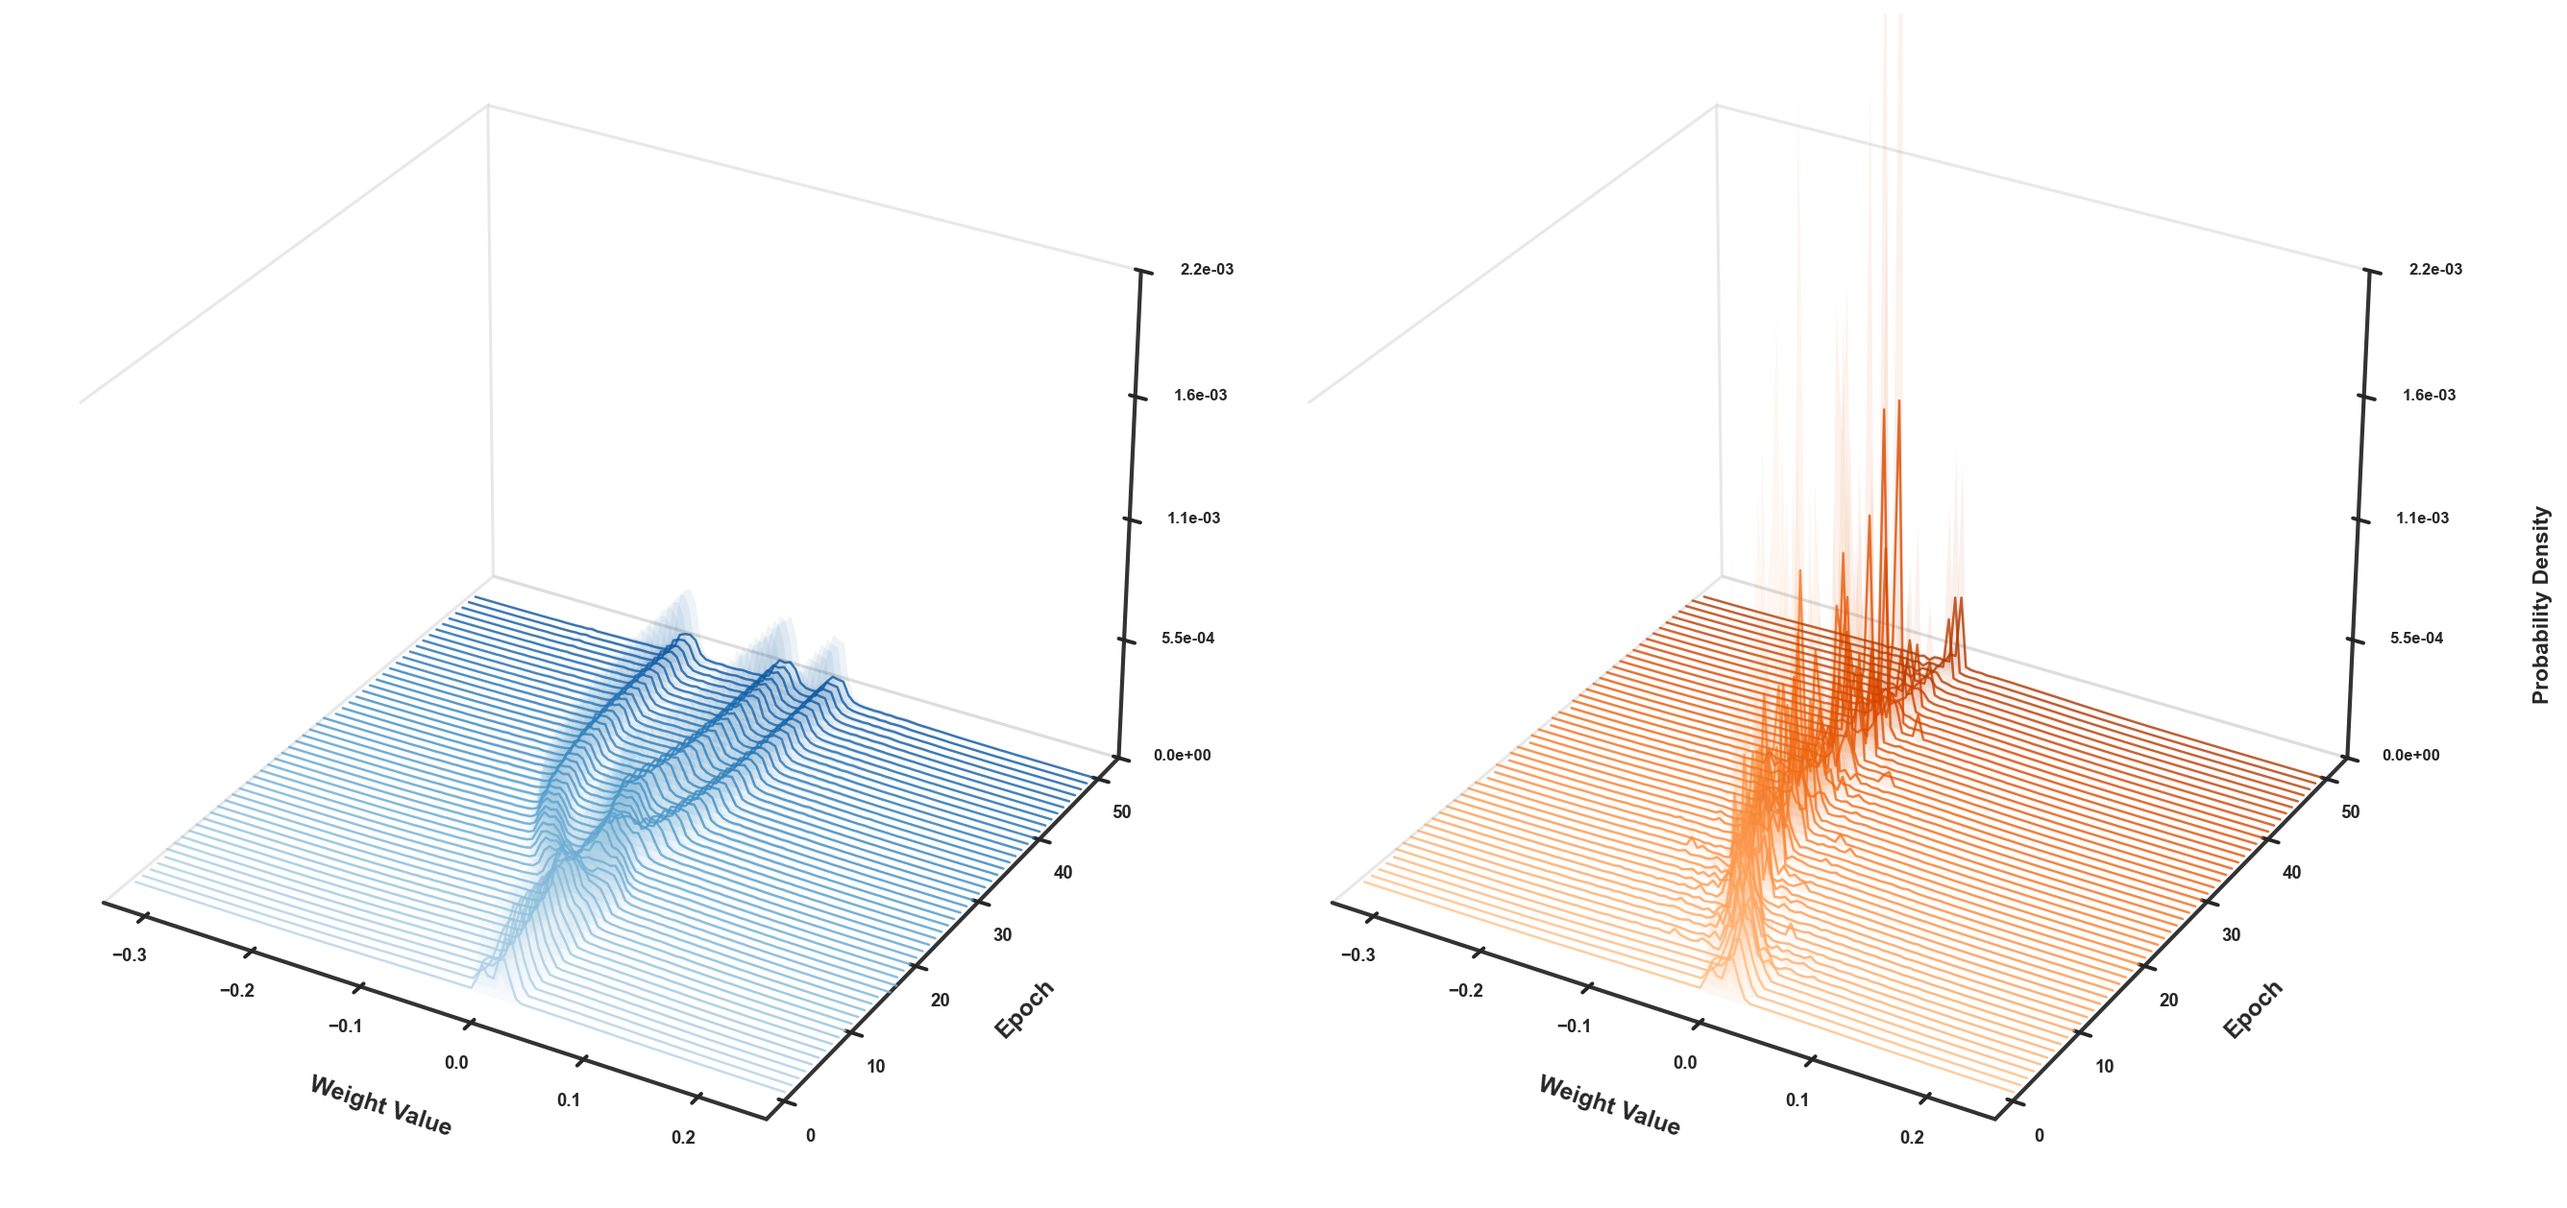
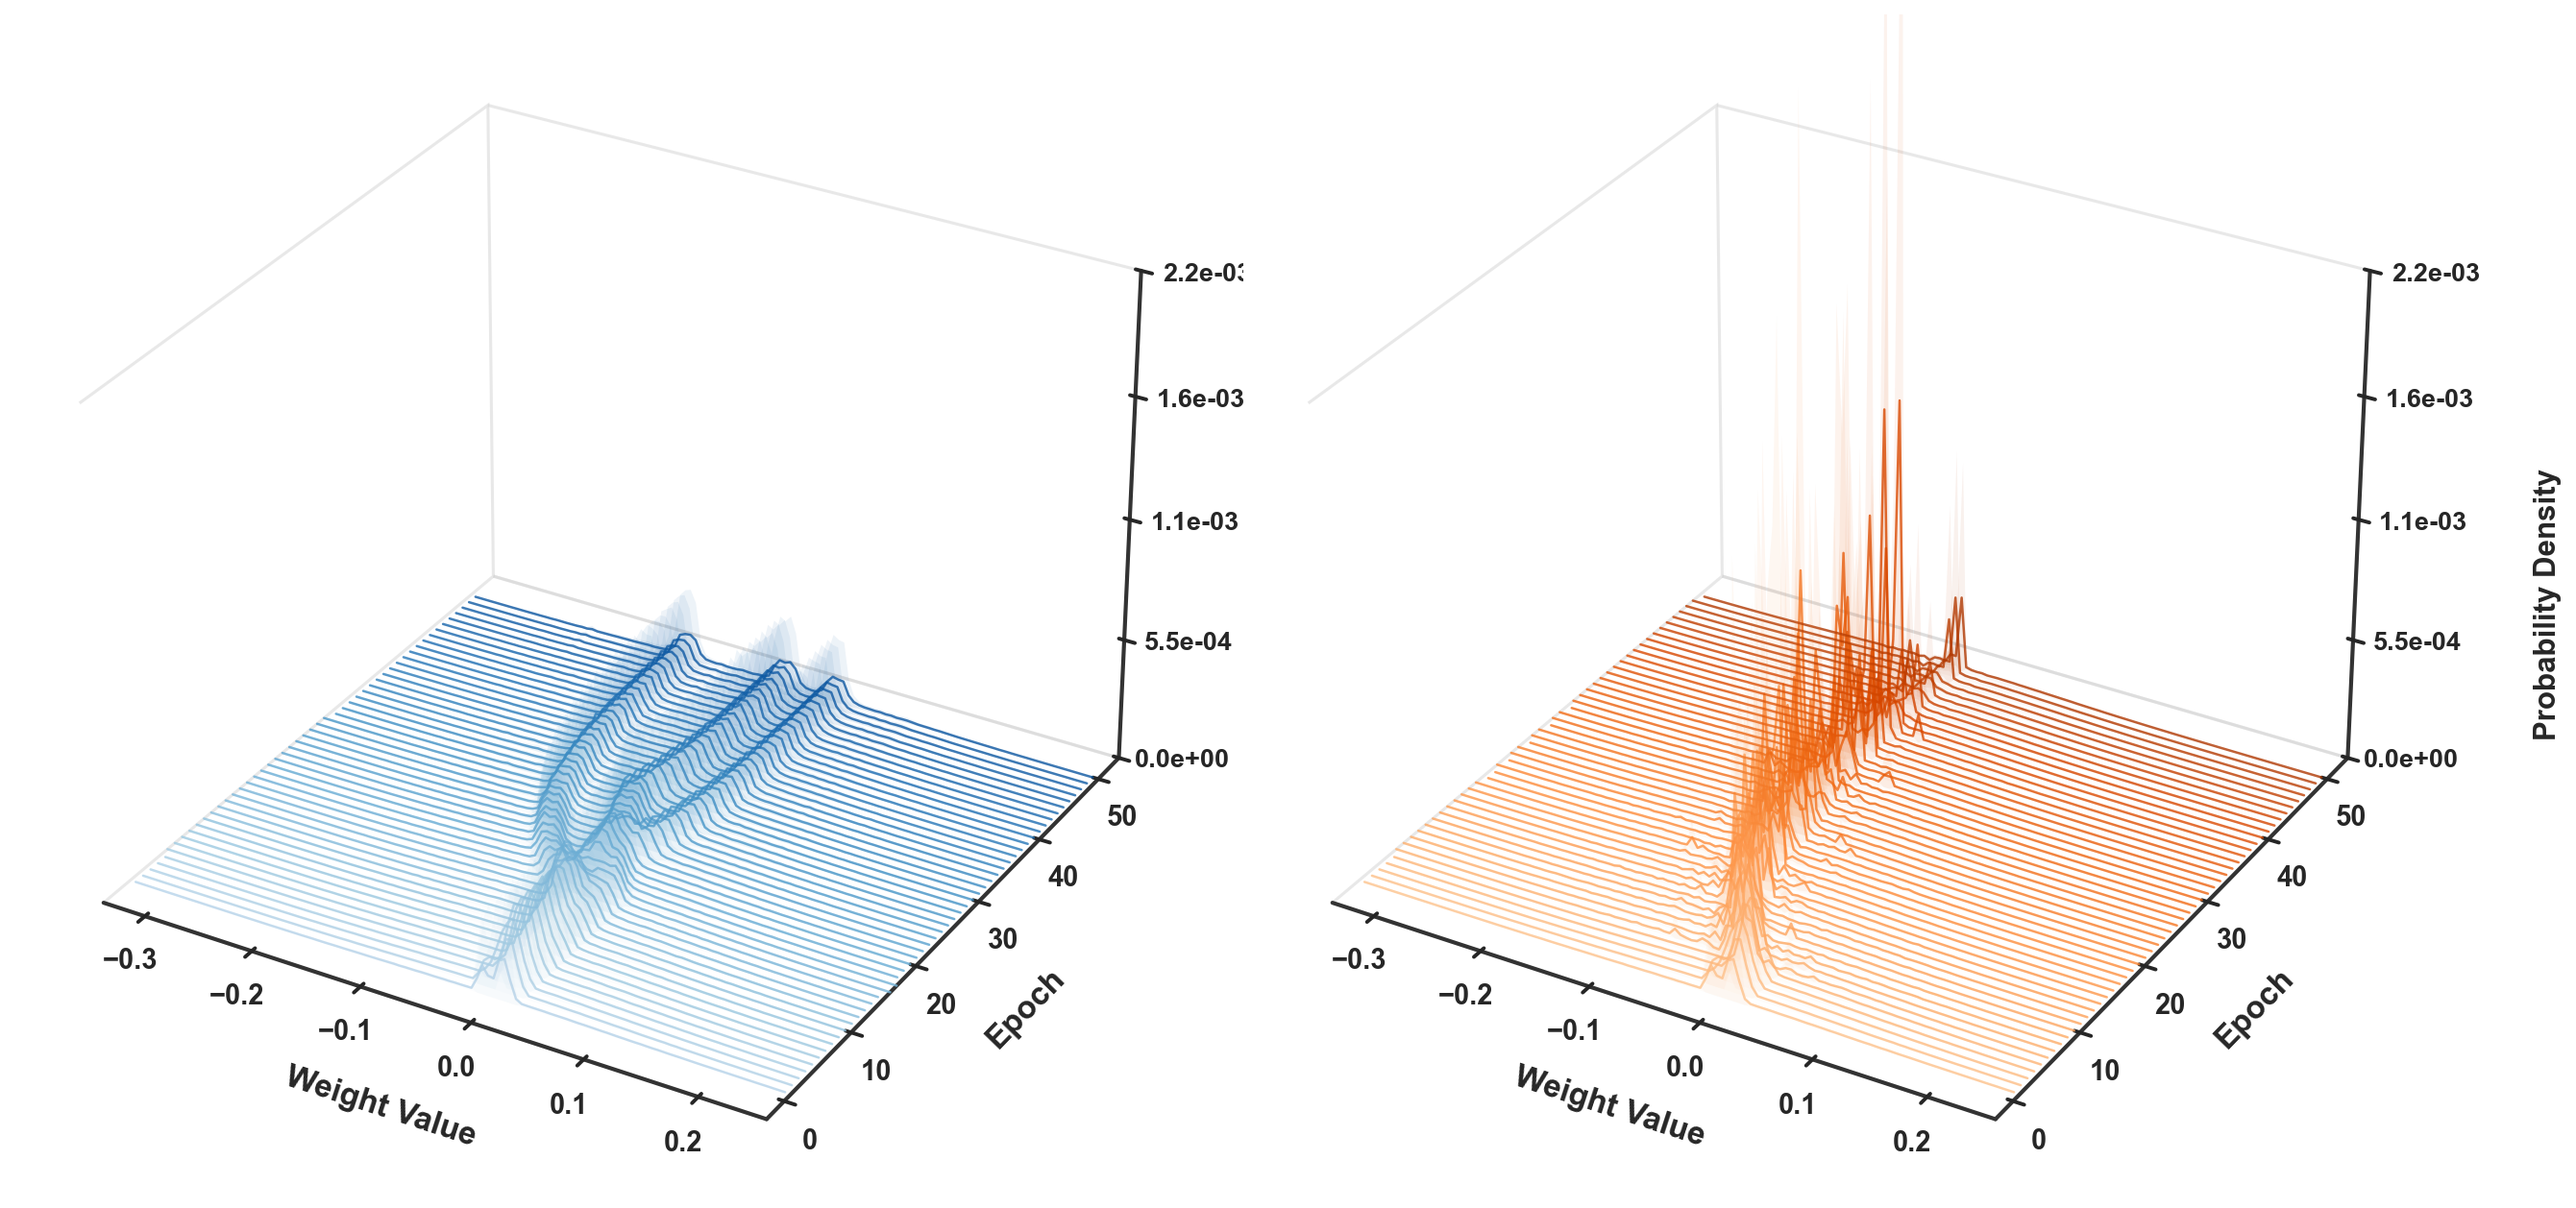
? - new images

diff --git a/Research/Complexity_Training_Test/selected_plots/distribution_evolution_interactive.html b/Research/Complexity_Training_Test/selected_plots/distribution_evolution_interactive.html
@@ -155,7 +155,7 @@ function drawFrame(epochIdx) {
     ctx.restore();
 
     // Peak label — stack vertically if positions clash
-    const lText = peakX.toFixed(3);
+    const lText = 'Mo=' + peakX.toFixed(3);
     ctx.font = 'bold 12px Arial';
     const tw  = ctx.measureText(lText).width;
     let lx = peakCX + 5;

diff --git a/Research/Complexity_Training_Test/plot.py b/Research/Complexity_Training_Test/plot.py
@@ -1264,7 +1264,7 @@ def plot_distributions_faceted(sources):
                        alpha=0.85, zorder=5)
             # Offset label to the right of the line with a white background
             x_range = avg_df['Bin_Center'].max() - avg_df['Bin_Center'].min()
-            ax.text(peak_x + x_range * 0.02, 0.88, f'{peak_x:.3f}',
+            ax.text(peak_x + x_range * 0.02, 0.88, f'Mo={peak_x:.3f}',
                     transform=ax.get_xaxis_transform(),
                     ha='left', va='top', fontsize=13,
                     fontweight='bold', color=color, zorder=6,
@@ -1954,45 +1954,47 @@ def plot_distribution_summary_per_epoch(sources):
         sorted_epochs = sorted(epoch_stats.keys())
         xs = sorted_epochs
 
+        # Source colour: Control = BLUE, Optimized = ORANGE
+        panel_color = src_colors.get(label, BLUE)
+
         def _vec(key, _stats=epoch_stats, _xs=sorted_epochs):
             means    = [_stats[e][key][0] for e in _xs]
             ci_lower = [_stats[e][key][1] for e in _xs]
             ci_upper = [_stats[e][key][2] for e in _xs]
             return np.array(means), np.array(ci_lower), np.array(ci_upper)
 
-        # --- Peak weight position  (X of GIF dashed line) -- left axis ---
+        # --- Mode (Mo)  (X of GIF dashed line) -- left axis ---
         m, lo, hi = _vec('peak_weight')
-        ax.plot(xs, m, color='#9467bd', linewidth=3.0, linestyle='--',
-                label='Peak Weight Position')
-        ax.fill_between(xs, lo, hi, color='#9467bd', alpha=0.18)
+        ax.plot(xs, m, color=panel_color, linewidth=3.0, linestyle='--',
+                label='Mode (Mo)')
+        ax.fill_between(xs, lo, hi, color=panel_color, alpha=0.18)
 
-        # --- Avg weight value / μ  (X of GIF dotted line) -- left axis ---
+        # --- Average (μ)  (X of GIF dotted line) -- left axis ---
         m, lo, hi = _vec('avg_weight')
-        ax.plot(xs, m, color='#7f7f7f', linewidth=2.5, linestyle=':',
-                label='Avg Weight Value (μ)')
-        ax.fill_between(xs, lo, hi, color='#7f7f7f', alpha=0.15)
+        ax.plot(xs, m, color=panel_color, linewidth=2.5, linestyle=':',
+                label='Average (μ)')
+        ax.fill_between(xs, lo, hi, color=panel_color, alpha=0.15)
 
-        # --- Peak density  (Y / height of GIF dashed line) -- right axis ---
+        # --- Highest probability density f(Mo)  (Y of GIF dashed line) -- right axis ---
         m, lo, hi = _vec('peak_density')
-        ax_right.plot(xs, m, color='#d62728', linewidth=2.5, linestyle='-',
-                      label='Peak Density')
-        ax_right.fill_between(xs, lo, hi, color='#d62728', alpha=0.13)
-        ax_right.set_ylabel('Peak Density', fontsize=14, fontweight='bold',
-                            labelpad=10, color='#d62728')
-        ax_right.tick_params(axis='y', labelcolor='#d62728', labelsize=12)
+        ax_right.plot(xs, m, color=panel_color, linewidth=2.5, linestyle='-',
+                      label='Highest probability density (f(Mo))')
+        ax_right.fill_between(xs, lo, hi, color=panel_color, alpha=0.13)
+        ax_right.set_ylabel('Highest probability density (f(Mo))', fontsize=18,
+                            fontweight='bold', labelpad=10, color=panel_color)
+        ax_right.tick_params(axis='y', labelcolor=panel_color, labelsize=16)
         ax_right.spines['top'].set_visible(False)
+        ax_right.spines['right'].set_color(panel_color)
+        ax_right.spines['right'].set_linewidth(1.5)
 
-        # Title coloured by source
-        panel_color = src_colors.get(label, BLUE)
-        ax.set_title(label, fontsize=20, fontweight='bold', pad=12,
-                     color=panel_color)
-
-        ax.set_xlabel('Epoch', fontsize=15, fontweight='bold', labelpad=10)
-        ax.set_ylabel('Weight Value', fontsize=14, fontweight='bold', labelpad=10)
-        ax.tick_params(axis='both', labelsize=12)
+        ax.set_xlabel('Epoch', fontsize=18, fontweight='bold', labelpad=10)
+        ax.set_ylabel('Weight Value', fontsize=18, fontweight='bold', labelpad=10)
+        ax.tick_params(axis='both', labelsize=16)
         ax.grid(True, alpha=0.35)
         ax.set_axisbelow(True)
         ax.spines['top'].set_visible(False)
+        ax.spines['left'].set_color(panel_color)
+        ax.spines['left'].set_linewidth(1.5)
 
         # Combined legend from both axes
         h_l, lbl_l = ax.get_legend_handles_labels()
@@ -2087,8 +2089,8 @@ def plot_distributions_3d_evolution(sources):
             poly_base.set_edgecolor('none')
             ax.add_collection3d(poly_base)
 
-        ax.set_xlabel('Weight Value', fontsize=12, labelpad=14)
-        ax.set_ylabel('Epoch', fontsize=12, labelpad=14)
+        ax.set_xlabel('Weight Value', fontsize=16, fontweight='bold', labelpad=14)
+        ax.set_ylabel('Epoch', fontsize=16, fontweight='bold', labelpad=14)
         ax.set_zlabel('')          # suppress built-in z-label entirely
         ax.set_xlim(x_min, x_max)
         ax.set_zlim(0, global_y_max)
@@ -2099,8 +2101,8 @@ def plot_distributions_3d_evolution(sources):
         ax.xaxis.pane.set_edgecolor('lightgray')
         ax.yaxis.pane.set_edgecolor('lightgray')
         ax.zaxis.pane.set_edgecolor('lightgray')
-        ax.tick_params(axis='both', labelsize=9)
-        ax.tick_params(axis='z', labelsize=8, pad=12)
+        ax.tick_params(axis='both', labelsize=14)
+        ax.tick_params(axis='z', labelsize=13, pad=12)
         # Fewer ticks + compact format so labels don't reach the spine
         ax.set_zticks(np.linspace(0, global_y_max, 5))
         ax.zaxis.set_major_formatter(
@@ -2114,7 +2116,7 @@ def plot_distributions_3d_evolution(sources):
             'Probability Density',
             xy=(1.0, 0.50), xycoords=ax.transAxes,
             xytext=(55, 0), textcoords='offset points',
-            ha='left', va='center', rotation=90, fontsize=11,
+            ha='left', va='center', rotation=90, fontsize=15, fontweight='bold',
             annotation_clip=False,
         )
 
@@ -2235,7 +2237,7 @@ def plot_distributions_gif_evolution(sources):
                                 linewidth=1.8, alpha=0.85, zorder=5)
                 peak_vlines[i] = vl
                 x_range = x_max - x_min
-                txt = ax.text(peak_x + x_range * 0.02, 0.88, f'{peak_x:.3f}',
+                txt = ax.text(peak_x + x_range * 0.02, 0.88, f'Mo={peak_x:.3f}',
                               transform=ax.get_xaxis_transform(),
                               ha='left', va='top', fontsize=11,
                               fontweight='bold', color=color, zorder=6,
@@ -2482,7 +2484,7 @@ function drawFrame(epochIdx) {{
     ctx.restore();
 
     // Peak label — stack vertically if positions clash
-    const lText = peakX.toFixed(3);
+    const lText = 'Mo=' + peakX.toFixed(3);
     ctx.font = 'bold 12px Arial';
     const tw  = ctx.measureText(lText).width;
     let lx = peakCX + 5;
